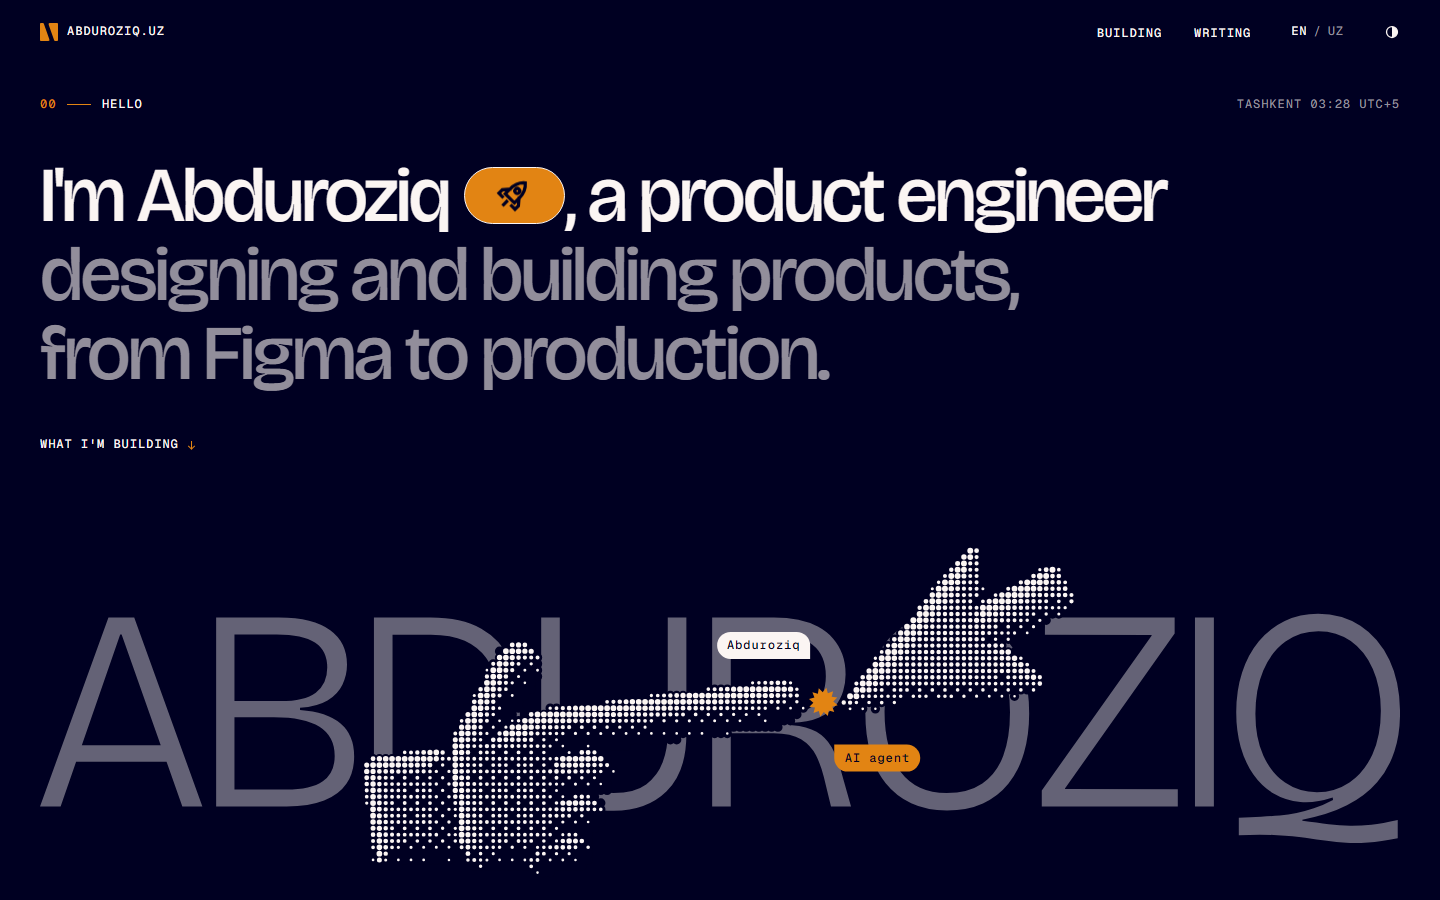
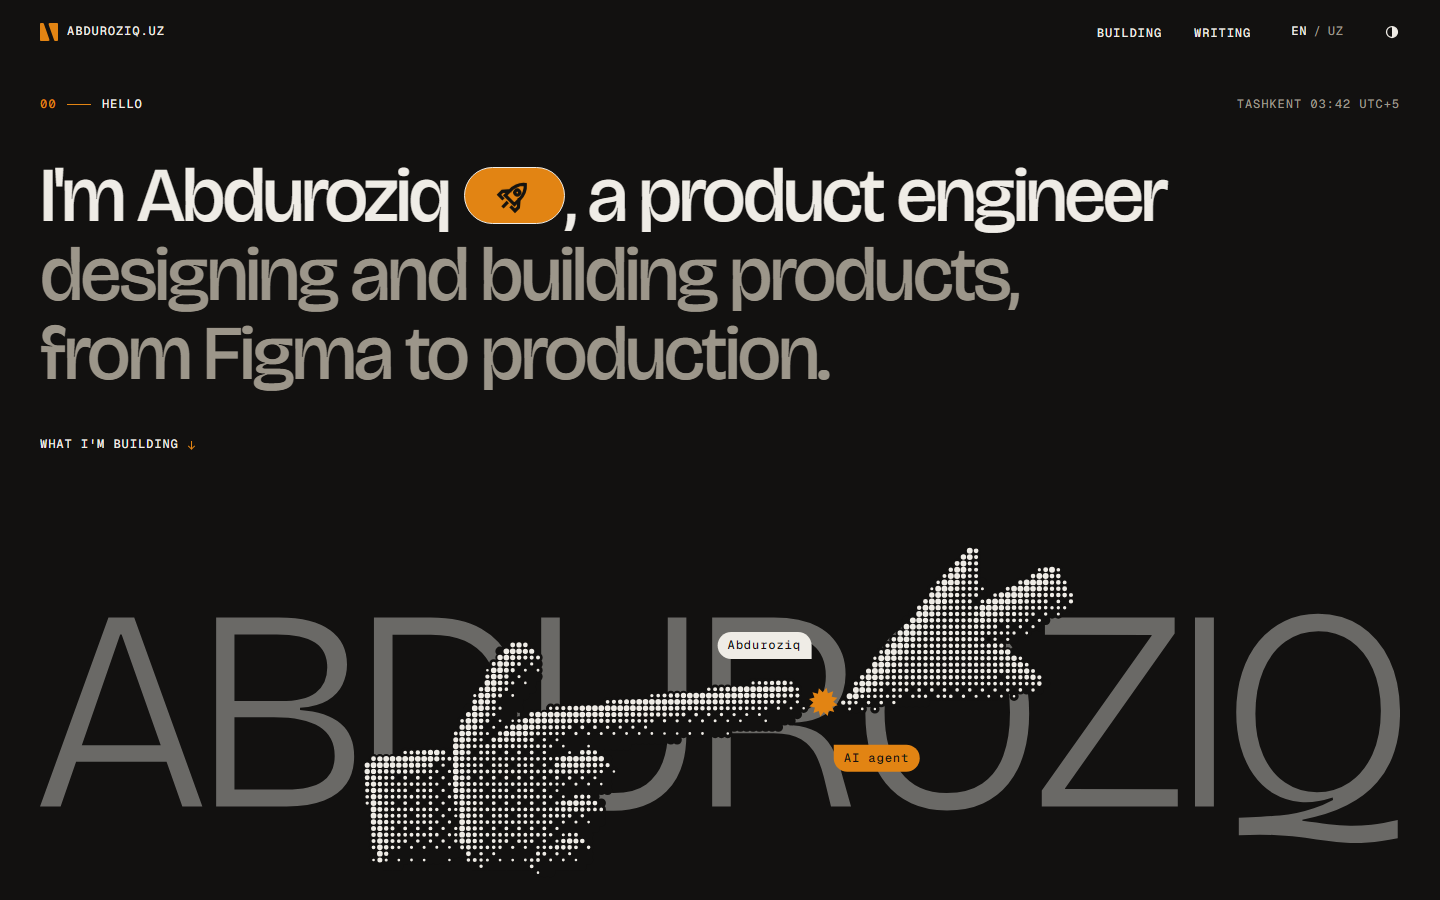
Keep the earlier warm palette for the dark theme
The brand palette replaced the dark theme with a navy paper and the
brand white as ink. Abduroziq prefers the dark theme as it was, so it
goes back to its warm black (#121110 paper, #EFECE6 ink and the warm
greys) and shares only the primary, the same orange as before, and the
logo with the light theme. Text on the accent there is the earlier warm
black again.

The light theme keeps the brand colours, and its ink band stays navy
because it is drawn with the light theme's ink. The theme-color meta,
the dark code theme, the styleguide, DESIGN 2.1, CLAUDE.md and the
README (text and dark screenshot) follow.

diff --git a/apps/web/src/styles/tokens.css b/apps/web/src/styles/tokens.css
@@ -4,9 +4,10 @@
  * (`bg-paper`, `text-ink-soft`, `border-rule`, `font-mono`, `px-gutter`, `mt-section`, ...).
  */
 
-/* 2.1 Colour. Built from the three brand colours: primary #e28413 (the accent), secondary
-   #000022 (ink in light, paper in dark) and white #fbf5f3 (paper in light, ink in dark). The
-   greys between are mixes of secondary and white (DESIGN 2.1 says how much of each).
+/* 2.1 Colour. The light theme is built from the three brand colours: primary #e28413 (the
+   accent), secondary #000022 (ink) and white #fbf5f3 (paper); the greys between are mixes of
+   secondary and white (DESIGN 2.1 says how much of each). The dark theme keeps its earlier
+   warm palette with the same accent.
    Light is the default; `data-theme` on <html> switches. The `--inv-*` set is the opposite
    theme with `ink` as background: it powers `surface-ink` (the ink band). */
 :root {
@@ -29,19 +30,22 @@
   color-scheme: light;
 }
 
+/* The dark theme keeps its earlier warm palette: only the accent (the brand primary, the same
+   orange as before) is shared with the light theme. */
 :root[data-theme='dark'] {
-  --paper: #000022;
-  --paper-raised: #0f0f2f;
-  --ink: #fbf5f3;
-  --ink-soft: #928e9b;
-  --rule: #23223f;
+  --paper: #121110;
+  --paper-raised: #1b1a17;
+  --ink: #efece6;
+  --ink-soft: #9c968a;
+  --rule: #2c2a26;
   --accent-text: #e28413;
+  --on-accent: #141310;
 
-  --inv-paper: #fbf5f3;
-  --inv-paper-raised: #ffffff;
-  --inv-ink: #000022;
-  --inv-ink-soft: #5f5d71;
-  --inv-rule: #ddd8da;
+  --inv-paper: #efece6;
+  --inv-paper-raised: #f6f4f0;
+  --inv-ink: #121110;
+  --inv-ink-soft: #5c574e;
+  --inv-rule: #d2cec6;
   --inv-accent-text: #9c5200;
 
   color-scheme: dark;
@@ -50,18 +54,19 @@
 /* Before the theme script has run (or without JavaScript) follow the system preference. */
 @media (prefers-color-scheme: dark) {
   :root:not([data-theme]) {
-    --paper: #000022;
-    --paper-raised: #0f0f2f;
-    --ink: #fbf5f3;
-    --ink-soft: #928e9b;
-    --rule: #23223f;
+    --paper: #121110;
+    --paper-raised: #1b1a17;
+    --ink: #efece6;
+    --ink-soft: #9c968a;
+    --rule: #2c2a26;
     --accent-text: #e28413;
+    --on-accent: #141310;
 
-    --inv-paper: #fbf5f3;
-    --inv-paper-raised: #ffffff;
-    --inv-ink: #000022;
-    --inv-ink-soft: #5f5d71;
-    --inv-rule: #ddd8da;
+    --inv-paper: #efece6;
+    --inv-paper-raised: #f6f4f0;
+    --inv-ink: #121110;
+    --inv-ink-soft: #5c574e;
+    --inv-rule: #d2cec6;
     --inv-accent-text: #9c5200;
 
     color-scheme: dark;

diff --git a/apps/web/src/lib/seo/brand.ts b/apps/web/src/lib/seo/brand.ts
@@ -5,7 +5,10 @@
  * sync.
  */
 
-/** The three brand colours. Every colour of the site is one of them or a mix of them. */
+/**
+ * The three brand colours. Every colour of the light theme is one of them or a mix of them; the
+ * dark theme keeps its earlier warm palette and shares only the primary.
+ */
 export const brand = {
   primary: '#E28413',
   secondary: '#000022',
@@ -14,7 +17,8 @@ export const brand = {
 
 export const palette = {
   paper: brand.white,
-  paperDark: brand.secondary,
+  /** The dark theme's paper (its earlier warm black), for `<meta name="theme-color">`. */
+  paperDark: '#121110',
   paperRaised: '#FFFFFF',
   ink: brand.secondary,
   inkSoft: '#5F5D71',

diff --git a/apps/web/src/lib/shiki-theme.ts b/apps/web/src/lib/shiki-theme.ts
@@ -28,7 +28,7 @@ export interface CodeColors {
 
 export const codeColors = {
   light: { background: '#FFFFFF', ink: '#000022', inkSoft: '#5F5D71', accentText: '#9C5200' },
-  dark: { background: '#0F0F2F', ink: '#FBF5F3', inkSoft: '#928E9B', accentText: '#E28413' },
+  dark: { background: '#1B1A17', ink: '#EFECE6', inkSoft: '#9C968A', accentText: '#E28413' },
 } as const satisfies Record<'light' | 'dark', CodeColors>;
 
 interface TokenRule {

diff --git a/docs/DESIGN.md b/docs/DESIGN.md
@@ -6,9 +6,9 @@ details (files, APIs, contracts) live in [ARCHITECTURE.md](ARCHITECTURE.md).
 ## 1. Concept: "Statement & Meeting"
 
 Abduroziq is a product engineer: he designs products and builds them, from Figma to
-production, and he works with AI agents every day. The site is a quiet, type-first page (navy
-ink on warm white paper, hairlines, one orange accent, the two-slab logo) with exactly three
-loud ideas:
+production, and he works with AI agents every day. The site is a quiet, type-first page (ink
+on paper, navy on warm white in the light theme, hairlines, one orange accent, the two-slab
+logo) with exactly three loud ideas:
 
 1. **The statement.** The introduction is one large, plain sentence in the brand sans, in
    two tones. A single living thing sits in it: a small capsule after his name that rolls
@@ -27,9 +27,10 @@ Principles, in priority order:
 - **Minimal is not empty.** Few elements, each one finished. If a thing is not the
   statement, the meeting, the desk, a table row or body text, question whether it should
   exist.
-- **One accent.** The brand has three colours (2.1): orange `#E28413` is the only colour, the
-  navy `#000022` is the ink and the warm white `#FBF5F3` the paper. No second accent, no
-  gradients, no glass, no glow, no drop shadows except the lifted desk objects.
+- **One accent.** Orange `#E28413`, the brand primary, is the only colour in both themes.
+  In the light theme the brand navy `#000022` is the ink and the warm white `#FBF5F3` the
+  paper; the dark theme keeps its warm black (2.1). No second accent, no gradients, no glass,
+  no glow, no drop shadows except the lifted desk objects.
 - **Motion has weight.** Things rise, settle, get thrown and land. Nothing floats
   aimlessly. The few loops are small and slow (the rolling capsule, the breathing cursors and
   their spark, the tape) and all of them stop with the motion switch.
@@ -47,32 +48,41 @@ The brand palette has three colours (the Figma file "Jabborov Abduroziq", page A
 | Brand | Hex | Role on the site |
 |---|---|---|
 | Primary | `#E28413` | the accent, in both themes; the logo |
-| Secondary | `#000022` | ink in the light theme, paper in the dark one; text on the accent |
-| White | `#FBF5F3` | paper in the light theme, ink in the dark one |
+| Secondary | `#000022` | ink in the light theme; text on the accent there; the light theme's ink band |
+| White | `#FBF5F3` | paper in the light theme |
 
-Every token is one of these, or a mix of secondary and white (the greys), with two
-exceptions: `paper-raised` in the light theme is pure white, one step lighter than the brand
-white, and `accent-text` in the light theme is the primary darkened for text.
+**Light theme**: every token is one of these, or a mix of secondary and white (the greys),
+with two exceptions: `paper-raised` is pure white, one step lighter than the brand white, and
+`accent-text` is the primary darkened for text.
+
+**Dark theme**: it keeps its earlier warm palette (a warm black paper and a warm off-white
+ink) and shares only the primary with the light theme. The brand navy is not used there.
 
 | Token | Light | Dark | Use |
 |---|---|---|---|
-| `paper` | `#FBF5F3` white | `#000022` secondary | page background |
-| `paper-raised` | `#FFFFFF` | `#0F0F2F` (6% white) | cards, code blocks, hovered rows |
-| `ink` | `#000022` secondary | `#FBF5F3` white | text, rules at full strength, inverted bands |
-| `ink-soft` | `#5F5D71` (62% secondary) | `#928E9B` (58% white) | secondary text |
-| `rule` | `#DDD8DA` (12% secondary) | `#23223F` (14% white) | hairlines |
+| `paper` | `#FBF5F3` white | `#121110` | page background |
+| `paper-raised` | `#FFFFFF` | `#1B1A17` | cards, code blocks, hovered rows |
+| `ink` | `#000022` secondary | `#EFECE6` | text, rules at full strength, inverted bands |
+| `ink-soft` | `#5F5D71` (62% secondary) | `#9C968A` | secondary text |
+| `rule` | `#DDD8DA` (12% secondary) | `#2C2A26` | hairlines |
 | `accent` | `#E28413` primary | `#E28413` primary | fills: tape, footer, the capsule, the agent's name tag, the spark, cursor burst |
 | `accent-text` | `#9C5200` | `#E28413` primary | accent-coloured text and icons on `paper` |
-| `on-accent` | `#000022` secondary | `#000022` secondary | text on an accent fill (always the navy) |
+| `on-accent` | `#000022` secondary | `#141310` | text on an accent fill (always the theme's dark ink) |
 
-Contrast, checked for every pair: `ink` on `paper` 19:1; `ink-soft` 5.9:1 on `paper` and
-6.4:1 on `paper-raised` (light), 6.4:1 and 5.8:1 (dark); `accent-text` 5.4:1 on `paper`
-(light), 7.4:1 (dark); `on-accent` on `accent` 7.4:1. The light `rule` and `paper-raised`
-sit as far from the paper as the old warm greys did (1.3:1 and 1.08:1).
+The ink band (`surface-ink`) is the other theme on the theme's ink: in the light theme a
+navy band (`#000022`, with white text and greys mixed from secondary and white: raised
+`#0F0F2F`, soft text `#928E9B`, rules `#23223F`); in the dark theme a warm off-white band.
+
+Contrast, checked for every pair. Light: `ink` on `paper` 19:1; `ink-soft` 5.9:1 on `paper`
+and 6.4:1 on `paper-raised`; `accent-text` 5.4:1 on `paper`; `on-accent` on `accent` 7.4:1.
+The light `rule` and `paper-raised` sit as far from the paper as the earlier warm greys did
+(1.3:1 and 1.08:1). Dark: `ink` on `paper` 16:1; `ink-soft` 6.4:1 and 5.9:1; `accent-text`
+6.8:1 on `paper`; `on-accent` on `accent` 6.7:1.
 
 Rules:
 
-- Accent is a **fill** first. Text on accent is always the navy `on-accent` (7.4:1).
+- Accent is a **fill** first. Text on accent is always the theme's dark `on-accent` (navy in
+  the light theme, warm black in the dark one).
   Accent-coloured text on paper uses `accent-text`, never raw `accent` in light mode.
 - An **ink band** is a full-bleed section with `ink` background and `paper` text. Use at
   most one per page (home: none by default; reserved for the 404 page and future use).

diff --git a/CLAUDE.md b/CLAUDE.md
@@ -41,7 +41,8 @@ monorepo. Public repository, MIT.
 - Never duplicate a page per language: one page file renders both locales.
 - Colours, type, spacing and motion values come from the design tokens. No raw hex
   values, font sizes or easings in components. The brand has three colours (primary
-  `#E28413`, secondary `#000022`, white `#FBF5F3`) and one logo, mastered in
+  `#E28413`, secondary `#000022`, white `#FBF5F3`): the light theme is built from them, the
+  dark theme keeps its earlier warm palette and shares only the primary. One logo, mastered in
   `packages/content/assets/logo.svg` (DESIGN 2.1 and 2.5). After changing either, run
   `node apps/web/scripts/generate-icons.mjs` and commit the icons.
 - Shared motion goes through the motion kit and its data attributes. Content must be

diff --git a/README.md b/README.md
@@ -12,7 +12,7 @@
 # abduroziq.uz
 
 **Personal website and blog of Abduroziq Jabborov, a product engineer in Tashkent.**<br>
-Static, bilingual (English and Uzbek), type-first. Navy ink on warm white, hairlines, one orange accent.
+Static, bilingual (English and Uzbek), type-first. Ink on paper, hairlines, one orange accent.
 
 [**abduroziq.uz**](https://abduroziq.uz) · [Design](docs/DESIGN.md) · [Architecture](docs/ARCHITECTURE.md) · [Stack notes](docs/STACK-NOTES.md) · [Deploy](docs/DEPLOY.md) · [Security](SECURITY.md)
 
